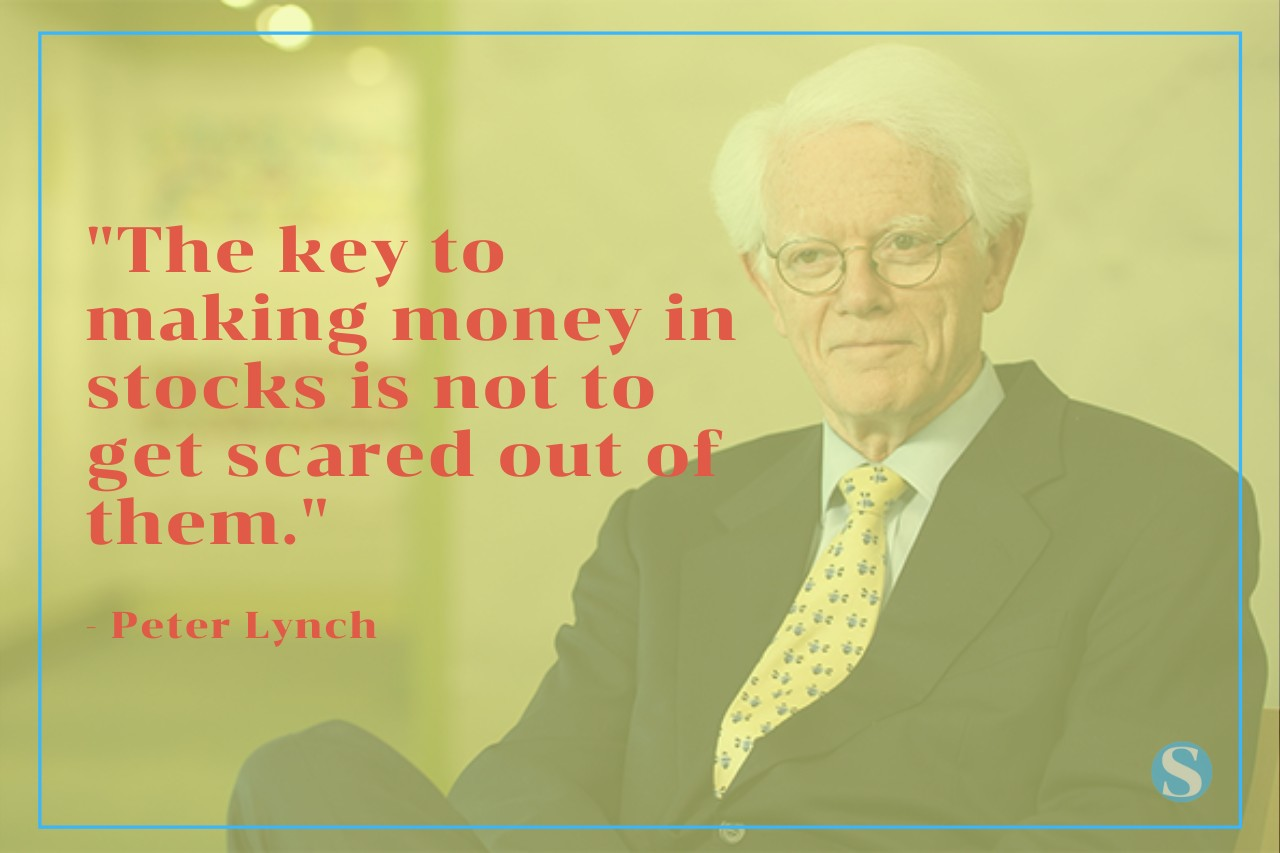
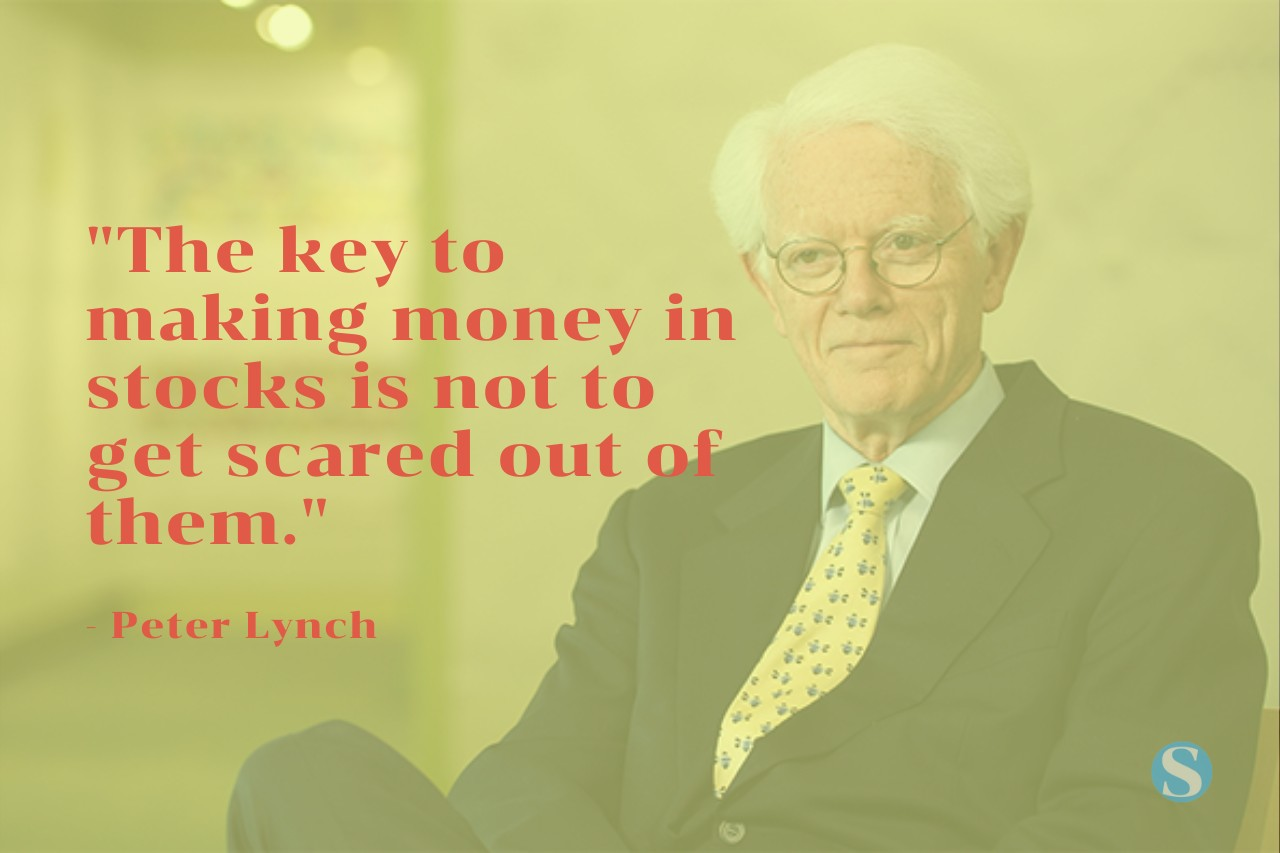
Udpated title for first blog
Udpated title for first blog and image updated

Changed region(s): [[0.0312, 0.9449, 0.9688, 0.9754], [0.0312, 0.0305, 0.9688, 0.061]]

diff --git a/_drafts/2020-05-04-10 Steps to become wealthy that only Super Rich KNOWS!.md b/_drafts/2020-05-04-10 Steps to become wealthy that only Super Rich KNOWS!.md
@@ -1,6 +1,6 @@
 ---
 layout: post
-title: Style Guide
+title: 10 Steps to become wealthy that only Super Rich KNOWS!
 image: 21.jpg
 date: 2020-05-04 09:35:20 +0530
 tags: [money, wealth]
